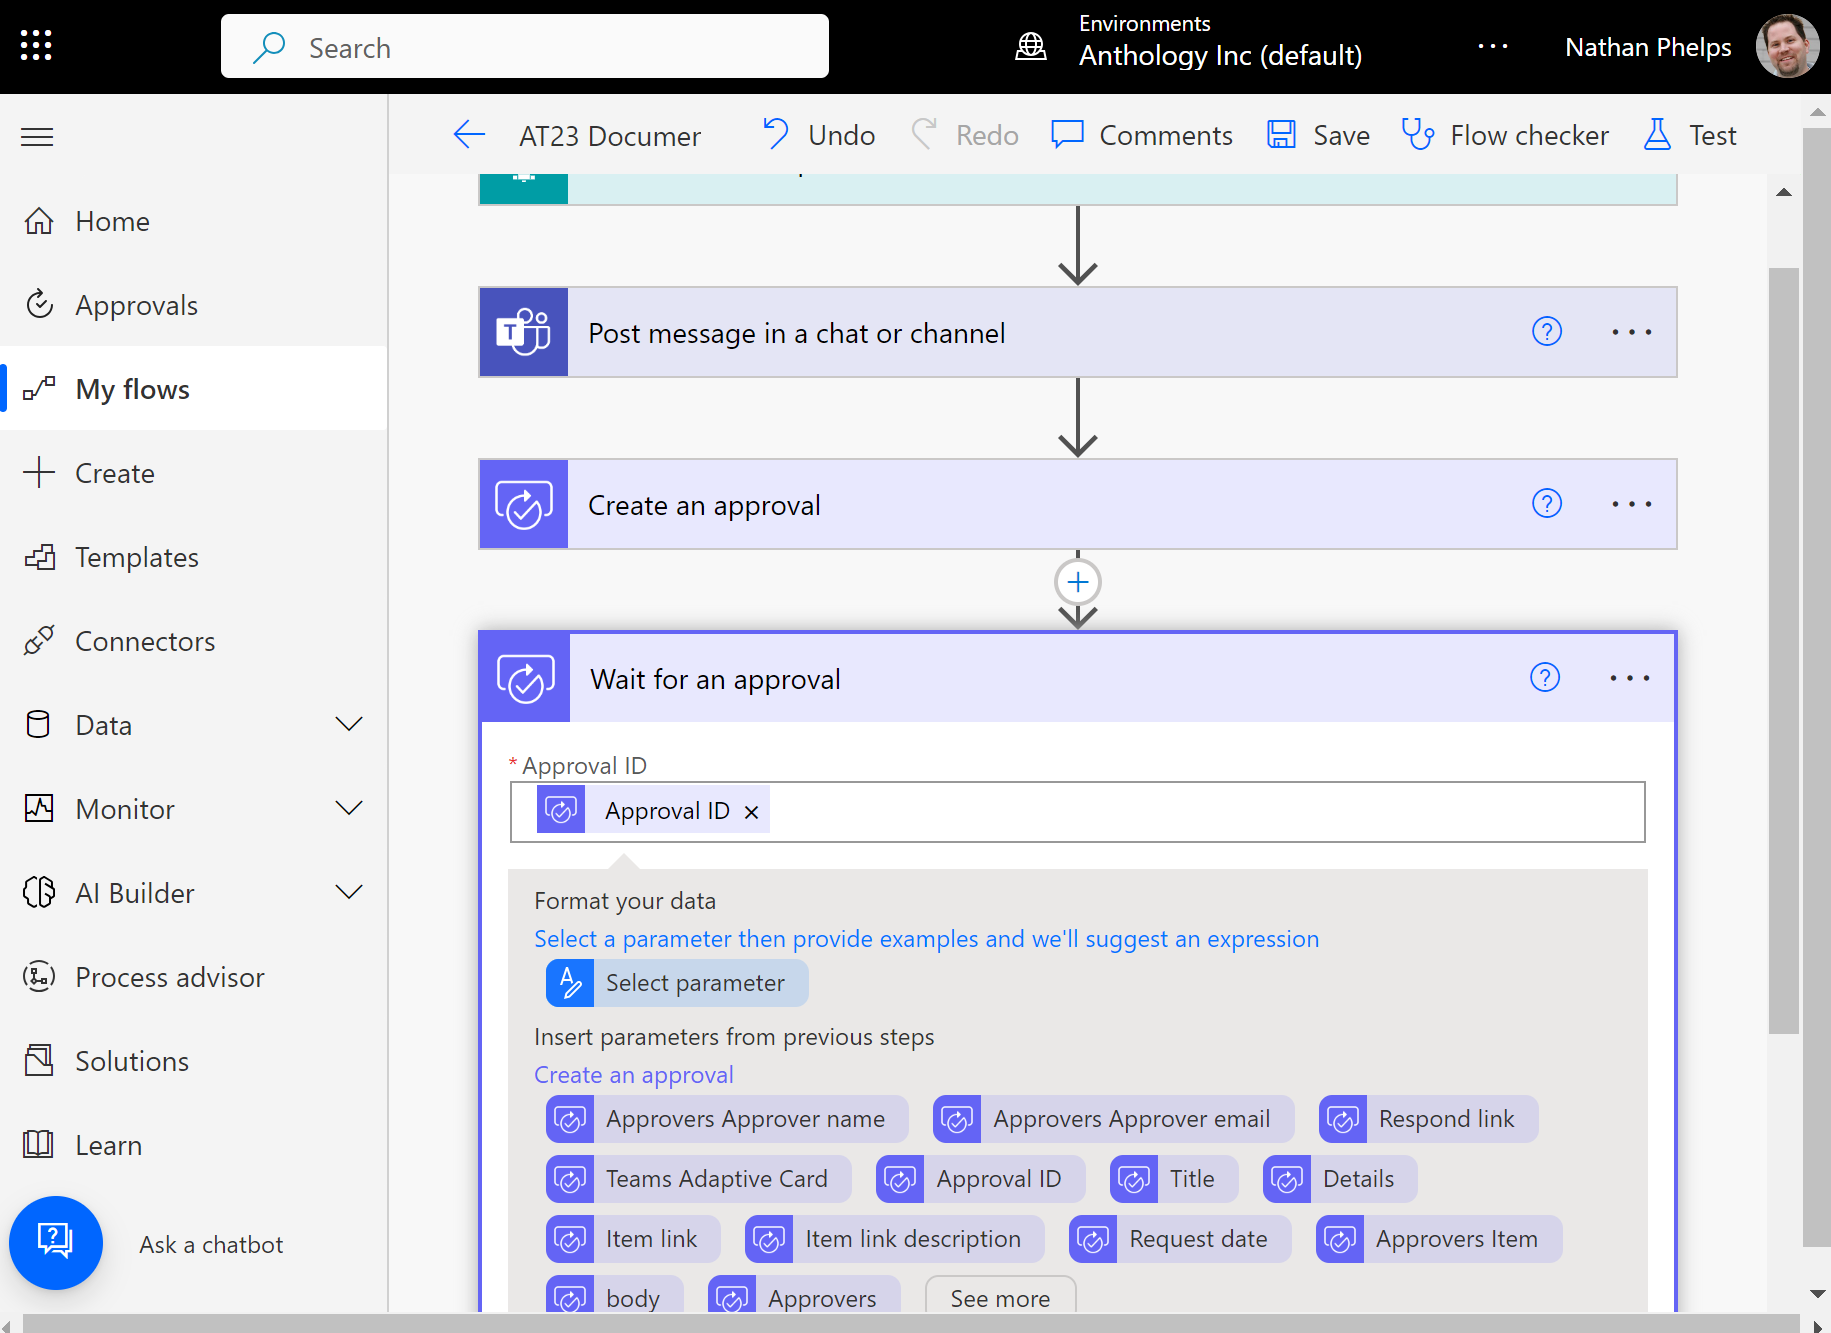
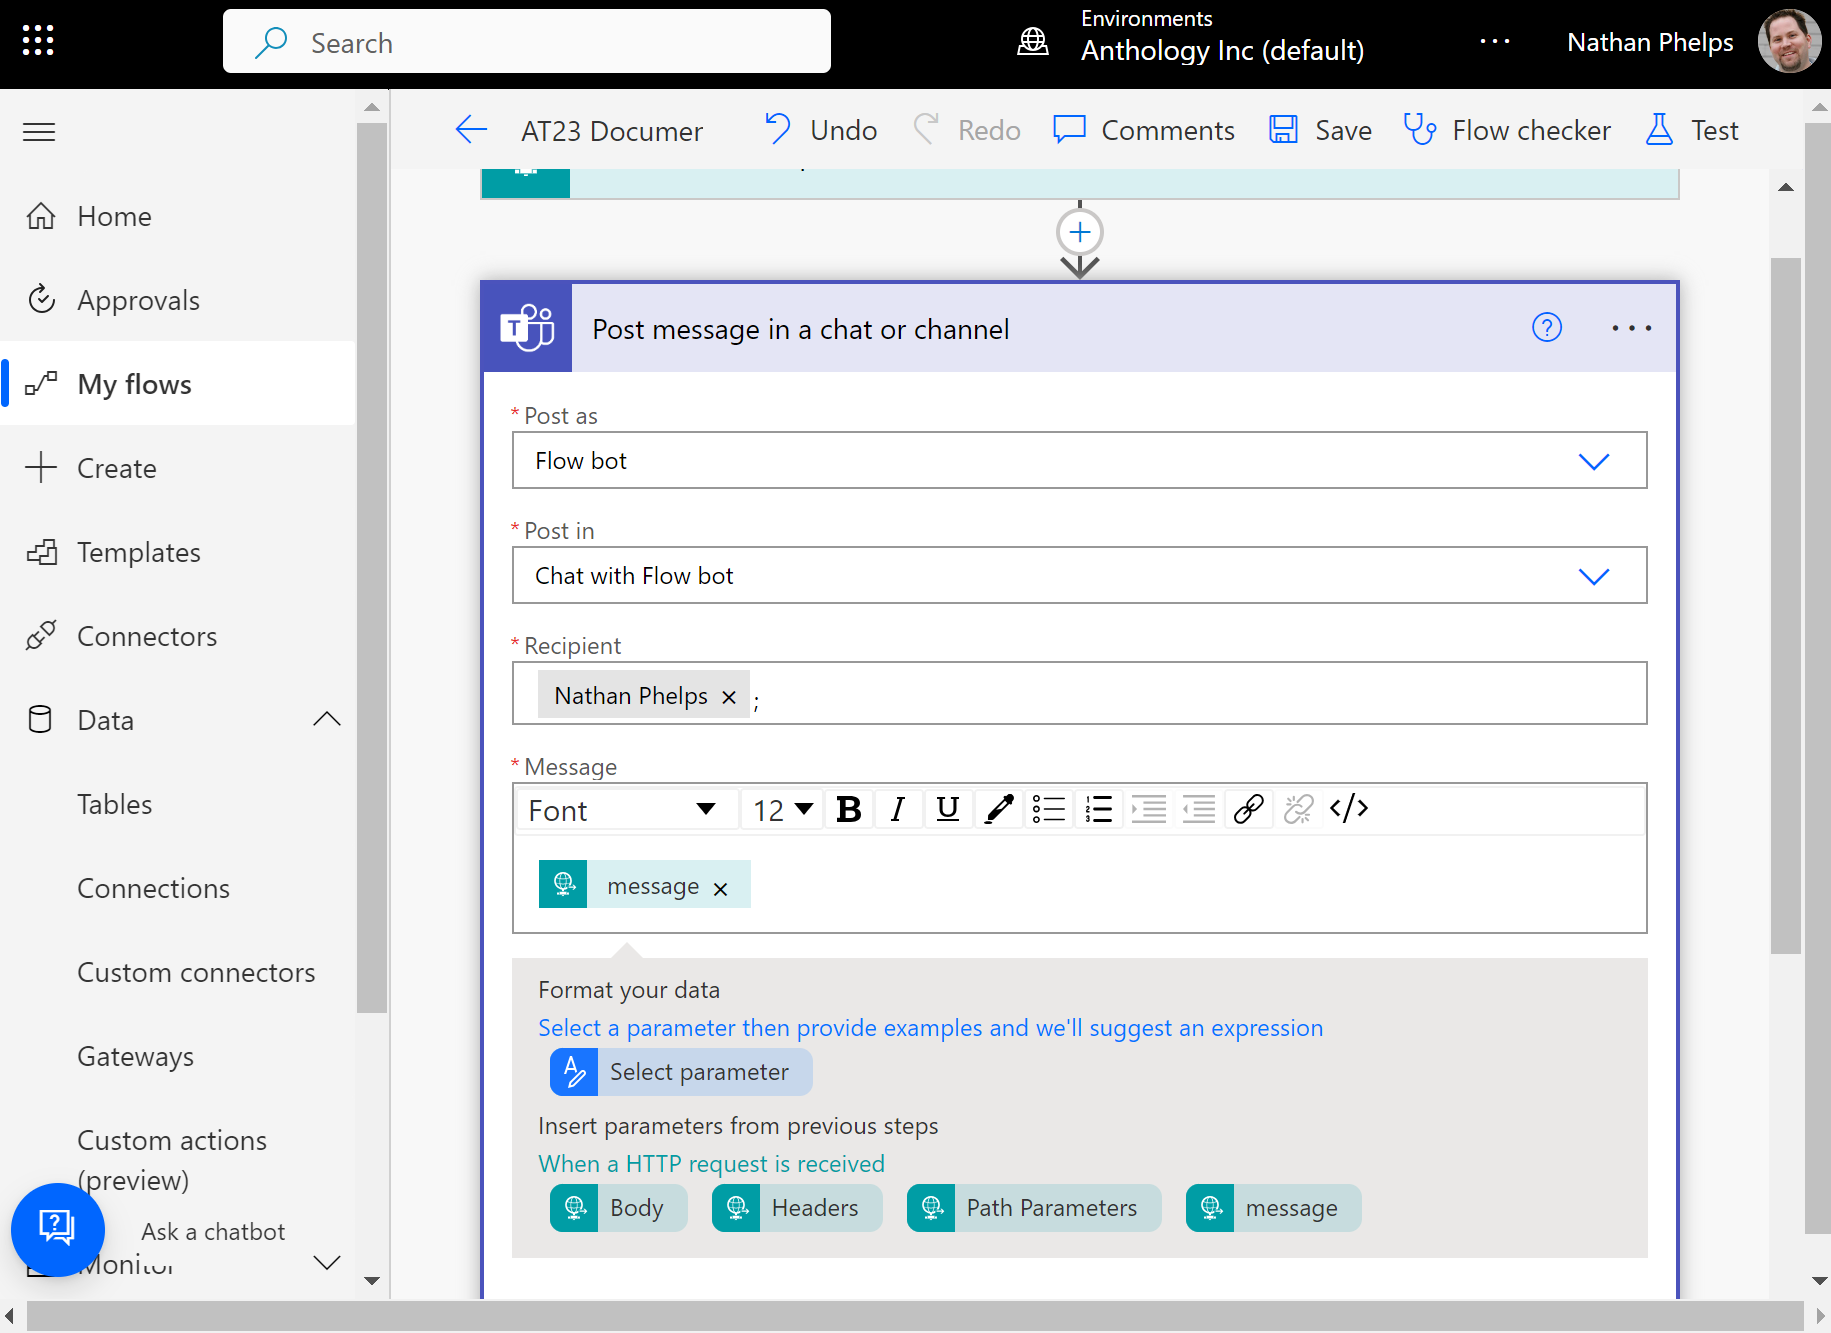
Refine the selection of the HTTP parameter

diff --git a/README.md b/README.md
@@ -76,20 +76,17 @@ Now we're going to make a simple change to our flow. Testing it will be a bit mo
 ```
 5. Expand the `Post a message in chat or channel` action
 6. Remove `Hello World!` from the field
-7. Choose `Select parameter`
 8. Select the `message` parameter
 
-![Screenshot of selecting parameters](screenshots/08.png)
+![Screenshot of parameter dialog](screenshots/13.png)
 
-9. Enter in `Hello World` and `Hello World` when prompted to give a format example
-10. Click `Get expression` and click `Apply`
-11. Save the flow
-12. Create a new Postman collection by pasting the URL and choosing `POST` as the method.
+9. Save the flow
+10. Create a new Postman collection by pasting the URL and choosing `POST` as the method.
 
 ![Screenshot of Postman request screen](screenshots/09.png)
 
-13. Select the `Body` tab in the Postman request and choose the `raw` content type.
-14. Past in the following JSON:
+11. Select the `Body` tab in the Postman request and choose the `raw` content type.
+12. Past in the following JSON:
 
 ```json
 {
@@ -98,10 +95,10 @@ Now we're going to make a simple change to our flow. Testing it will be a bit mo
 ```
 ![Screenshot of Postman body screen](screenshots/10.png)
 
-15. Back in Power Automate, manually Test your flow
-16. In Postman click `Send`
-17. Verify that you received a chat message in Teams that says `Hello from Anthology Together 2023!`
-18. Verify that your flow completed successfully
+13. Back in Power Automate, manually Test your flow
+14. In Postman click `Send`
+15. Verify that you received a chat message in Teams that says `Hello from Anthology Together 2023!`
+16. Verify that your flow completed successfully
 
 ---
 
